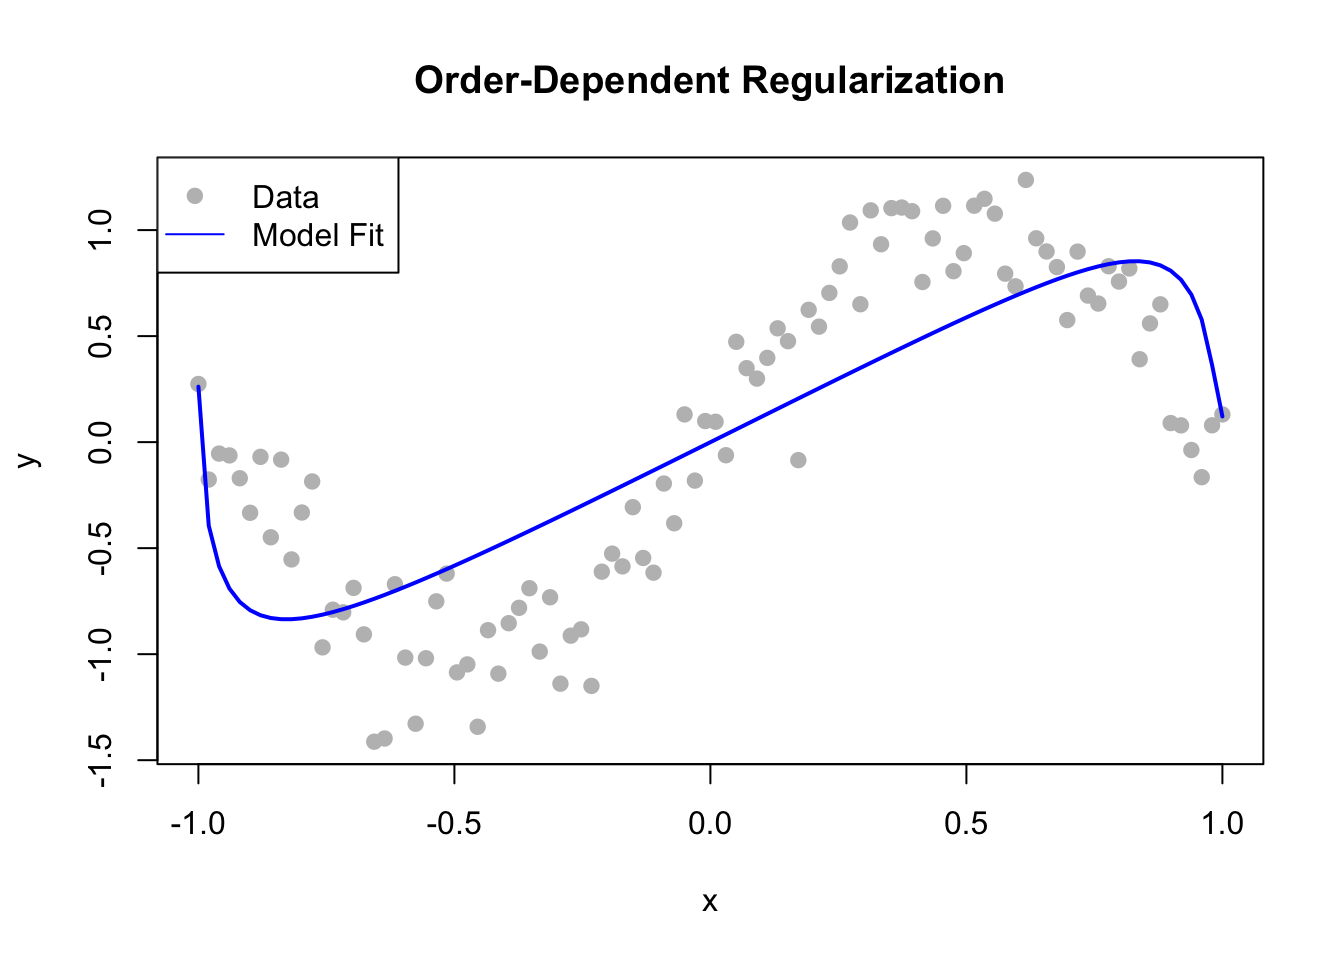
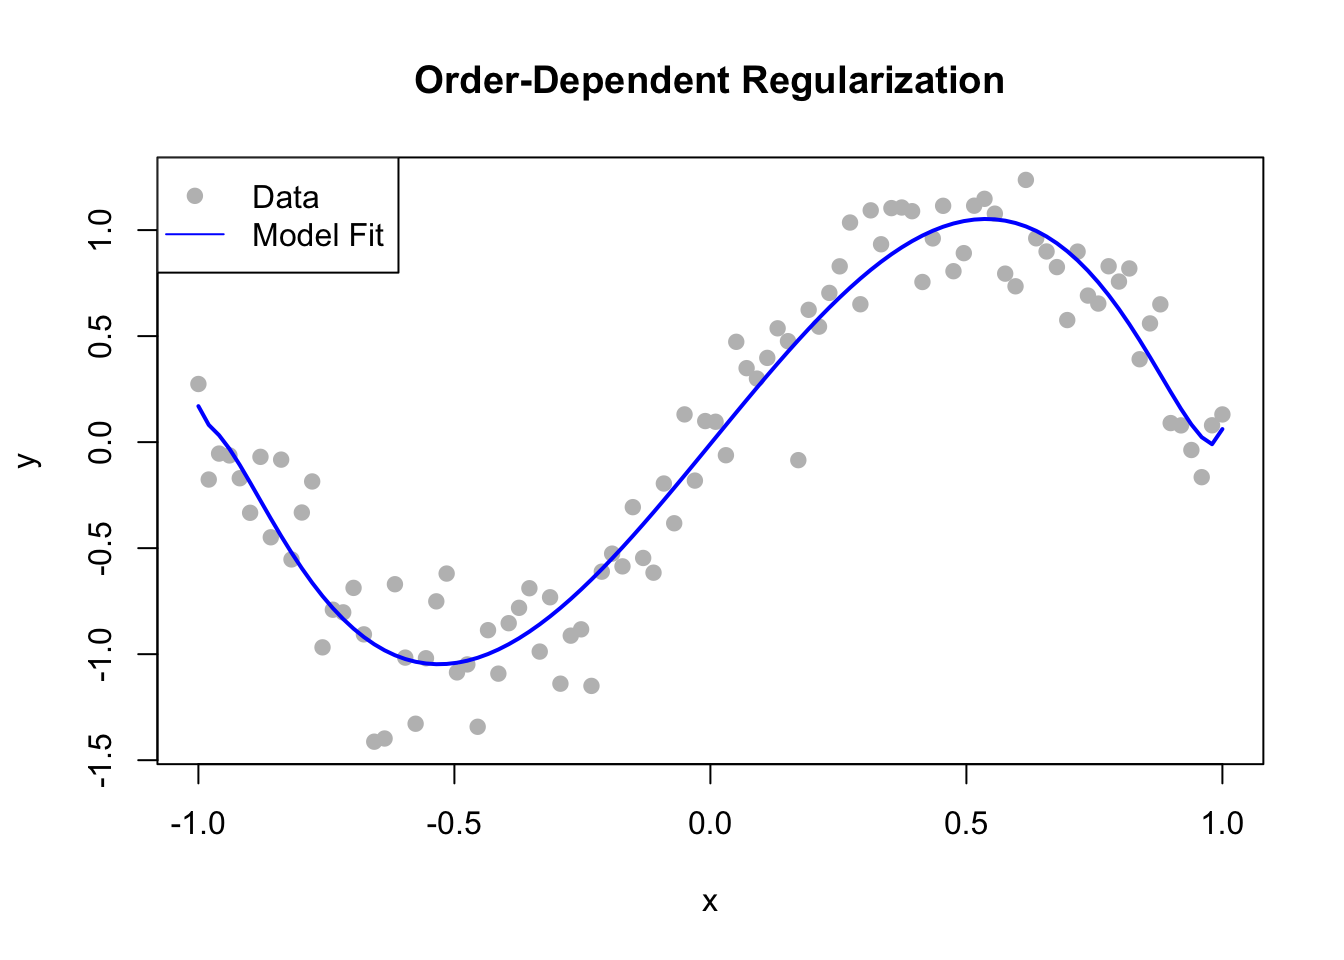
Remove cache files

diff --git a/beware_of_r-square.html b/beware_of_r-square.html
@@ -346,68 +346,15 @@ pre > code.sourceCode > span > a:first-child::before { text-decoration: underlin
 <span id="cb15-11"><a href="#cb15-11" aria-hidden="true" tabindex="-1"></a>    vars[i<span class="sc">+</span><span class="dv">1</span>, j] <span class="ot">&lt;-</span> <span class="fu">calc_variance</span>(<span class="dv">10</span>, i, <span class="fl">0.1</span>, <span class="dv">1000</span>)</span>
 <span id="cb15-12"><a href="#cb15-12" aria-hidden="true" tabindex="-1"></a>  }</span>
 <span id="cb15-13"><a href="#cb15-13" aria-hidden="true" tabindex="-1"></a>}</span></code></pre></div><button title="Copy to Clipboard" class="code-copy-button"><i class="bi"></i></button></div>
-<div class="cell-output cell-output-stdout">
-<pre><code>[1] 0
-[1] 1
-[1] 2
-[1] 3
-[1] 4
-[1] 5
-[1] 6
-[1] 7
-[1] 8
-[1] 9
-[1] 10
-[1] 11
-[1] 12
-[1] 13
-[1] 14
-[1] 15
-[1] 16
-[1] 17
-[1] 18
-[1] 19
-[1] 20
-[1] 21
-[1] 22
-[1] 23
-[1] 24
-[1] 25
-[1] 26
-[1] 27
-[1] 28
-[1] 29
-[1] 30
-[1] 31
-[1] 32
-[1] 33
-[1] 34
-[1] 35
-[1] 36
-[1] 37
-[1] 38
-[1] 39
-[1] 40
-[1] 41
-[1] 42
-[1] 43
-[1] 44
-[1] 45
-[1] 46
-[1] 47
-[1] 48
-[1] 49
-[1] 50</code></pre>
-</div>
 </div>
 <div class="cell">
-<div class="code-copy-outer-scaffold"><div class="sourceCode cell-code" id="cb17"><pre class="sourceCode r code-with-copy"><code class="sourceCode r"><span id="cb17-1"><a href="#cb17-1" aria-hidden="true" tabindex="-1"></a>plot_col <span class="ot">&lt;-</span> <span class="fu">rep</span>(<span class="st">"blue"</span>, K<span class="sc">+</span><span class="dv">1</span>)</span>
-<span id="cb17-2"><a href="#cb17-2" aria-hidden="true" tabindex="-1"></a>plot_col[<span class="dv">1</span><span class="sc">:</span><span class="dv">9</span>] <span class="ot">&lt;-</span> <span class="st">"forestgreen"</span> <span class="co"># used later</span></span>
-<span id="cb17-3"><a href="#cb17-3" aria-hidden="true" tabindex="-1"></a>df <span class="ot">&lt;-</span> <span class="fu">data.frame</span>(<span class="at">vars=</span><span class="fu">rowMeans</span>(<span class="fu">log</span>(vars)), </span>
-<span id="cb17-4"><a href="#cb17-4" aria-hidden="true" tabindex="-1"></a>                 <span class="at">err=</span><span class="fu">rowMeans</span>(<span class="fu">log</span>(err)), </span>
-<span id="cb17-5"><a href="#cb17-5" aria-hidden="true" tabindex="-1"></a>                 <span class="at">plot_col=</span>plot_col)</span>
-<span id="cb17-6"><a href="#cb17-6" aria-hidden="true" tabindex="-1"></a><span class="fu">plot</span>(<span class="dv">0</span><span class="sc">:</span>K, df<span class="sc">$</span>err, <span class="st">"l"</span>, <span class="at">xlab=</span><span class="st">"Number of added features"</span>, <span class="at">ylab=</span><span class="st">"log(test error)"</span>, <span class="at">las=</span><span class="dv">1</span>, <span class="at">main=</span><span class="st">"Double Descent"</span>, <span class="at">col=</span><span class="st">"blue"</span>, <span class="at">lwd=</span><span class="dv">2</span>)</span>
-<span id="cb17-7"><a href="#cb17-7" aria-hidden="true" tabindex="-1"></a><span class="fu">abline</span>(<span class="at">v=</span><span class="dv">8</span>, <span class="at">lty=</span><span class="dv">2</span>, <span class="at">col=</span><span class="st">"red"</span>)</span></code></pre></div><button title="Copy to Clipboard" class="code-copy-button"><i class="bi"></i></button></div>
+<div class="code-copy-outer-scaffold"><div class="sourceCode cell-code" id="cb16"><pre class="sourceCode r code-with-copy"><code class="sourceCode r"><span id="cb16-1"><a href="#cb16-1" aria-hidden="true" tabindex="-1"></a>plot_col <span class="ot">&lt;-</span> <span class="fu">rep</span>(<span class="st">"blue"</span>, K<span class="sc">+</span><span class="dv">1</span>)</span>
+<span id="cb16-2"><a href="#cb16-2" aria-hidden="true" tabindex="-1"></a>plot_col[<span class="dv">1</span><span class="sc">:</span><span class="dv">9</span>] <span class="ot">&lt;-</span> <span class="st">"forestgreen"</span> <span class="co"># used later</span></span>
+<span id="cb16-3"><a href="#cb16-3" aria-hidden="true" tabindex="-1"></a>df <span class="ot">&lt;-</span> <span class="fu">data.frame</span>(<span class="at">vars=</span><span class="fu">rowMeans</span>(<span class="fu">log</span>(vars)), </span>
+<span id="cb16-4"><a href="#cb16-4" aria-hidden="true" tabindex="-1"></a>                 <span class="at">err=</span><span class="fu">rowMeans</span>(<span class="fu">log</span>(err)), </span>
+<span id="cb16-5"><a href="#cb16-5" aria-hidden="true" tabindex="-1"></a>                 <span class="at">plot_col=</span>plot_col)</span>
+<span id="cb16-6"><a href="#cb16-6" aria-hidden="true" tabindex="-1"></a><span class="fu">plot</span>(<span class="dv">0</span><span class="sc">:</span>K, df<span class="sc">$</span>err, <span class="st">"l"</span>, <span class="at">xlab=</span><span class="st">"Number of added features"</span>, <span class="at">ylab=</span><span class="st">"log(test error)"</span>, <span class="at">las=</span><span class="dv">1</span>, <span class="at">main=</span><span class="st">"Double Descent"</span>, <span class="at">col=</span><span class="st">"blue"</span>, <span class="at">lwd=</span><span class="dv">2</span>)</span>
+<span id="cb16-7"><a href="#cb16-7" aria-hidden="true" tabindex="-1"></a><span class="fu">abline</span>(<span class="at">v=</span><span class="dv">8</span>, <span class="at">lty=</span><span class="dv">2</span>, <span class="at">col=</span><span class="st">"red"</span>)</span></code></pre></div><button title="Copy to Clipboard" class="code-copy-button"><i class="bi"></i></button></div>
 <div class="cell-output-display">
 <div>
 <figure class="figure">
@@ -417,8 +364,8 @@ pre > code.sourceCode > span > a:first-child::before { text-decoration: underlin
 </div>
 </div>
 <div class="cell">
-<div class="code-copy-outer-scaffold"><div class="sourceCode cell-code" id="cb18"><pre class="sourceCode r code-with-copy"><code class="sourceCode r"><span id="cb18-1"><a href="#cb18-1" aria-hidden="true" tabindex="-1"></a><span class="fu">plot</span>(<span class="dv">0</span><span class="sc">:</span>K, df<span class="sc">$</span>vars, <span class="st">"l"</span>, <span class="at">xlab=</span><span class="st">"Number of added features"</span>, <span class="at">ylab=</span><span class="st">"log(variance)"</span>, <span class="at">las=</span><span class="dv">1</span>, <span class="at">main=</span><span class="st">"Model variance"</span>, <span class="at">lwd=</span><span class="dv">2</span>, <span class="at">col=</span><span class="st">"darkgreen"</span>)</span>
-<span id="cb18-2"><a href="#cb18-2" aria-hidden="true" tabindex="-1"></a><span class="fu">abline</span>(<span class="at">v=</span><span class="dv">8</span>, <span class="at">lty=</span><span class="dv">2</span>, <span class="at">col=</span><span class="st">"red"</span>)</span></code></pre></div><button title="Copy to Clipboard" class="code-copy-button"><i class="bi"></i></button></div>
+<div class="code-copy-outer-scaffold"><div class="sourceCode cell-code" id="cb17"><pre class="sourceCode r code-with-copy"><code class="sourceCode r"><span id="cb17-1"><a href="#cb17-1" aria-hidden="true" tabindex="-1"></a><span class="fu">plot</span>(<span class="dv">0</span><span class="sc">:</span>K, df<span class="sc">$</span>vars, <span class="st">"l"</span>, <span class="at">xlab=</span><span class="st">"Number of added features"</span>, <span class="at">ylab=</span><span class="st">"log(variance)"</span>, <span class="at">las=</span><span class="dv">1</span>, <span class="at">main=</span><span class="st">"Model variance"</span>, <span class="at">lwd=</span><span class="dv">2</span>, <span class="at">col=</span><span class="st">"darkgreen"</span>)</span>
+<span id="cb17-2"><a href="#cb17-2" aria-hidden="true" tabindex="-1"></a><span class="fu">abline</span>(<span class="at">v=</span><span class="dv">8</span>, <span class="at">lty=</span><span class="dv">2</span>, <span class="at">col=</span><span class="st">"red"</span>)</span></code></pre></div><button title="Copy to Clipboard" class="code-copy-button"><i class="bi"></i></button></div>
 <div class="cell-output-display">
 <div>
 <figure class="figure">
@@ -428,11 +375,11 @@ pre > code.sourceCode > span > a:first-child::before { text-decoration: underlin
 </div>
 </div>
 <div class="cell">
-<div class="code-copy-outer-scaffold"><div class="sourceCode cell-code" id="cb19"><pre class="sourceCode r code-with-copy"><code class="sourceCode r"><span id="cb19-1"><a href="#cb19-1" aria-hidden="true" tabindex="-1"></a>df<span class="sc">$</span>K <span class="ot">&lt;-</span> <span class="dv">0</span><span class="sc">:</span>K</span>
-<span id="cb19-2"><a href="#cb19-2" aria-hidden="true" tabindex="-1"></a>df <span class="ot">&lt;-</span> df[<span class="fu">order</span>(df<span class="sc">$</span>vars), ]</span>
-<span id="cb19-3"><a href="#cb19-3" aria-hidden="true" tabindex="-1"></a><span class="fu">plot</span>(df<span class="sc">$</span>vars, df<span class="sc">$</span>err, <span class="at">col=</span>df<span class="sc">$</span>plot_col, <span class="at">pch=</span><span class="dv">19</span>, <span class="at">xlab=</span><span class="st">"log(variance)"</span>, <span class="at">ylab=</span><span class="st">"log(test error)"</span>, <span class="at">las=</span><span class="dv">1</span>, <span class="at">cex=</span><span class="fl">1.3</span>)</span>
-<span id="cb19-4"><a href="#cb19-4" aria-hidden="true" tabindex="-1"></a>loess_fit <span class="ot">&lt;-</span> <span class="fu">loess</span>(df<span class="sc">$</span>err <span class="sc">~</span> df<span class="sc">$</span>vars, <span class="at">span =</span> <span class="fl">0.6</span>)</span>
-<span id="cb19-5"><a href="#cb19-5" aria-hidden="true" tabindex="-1"></a><span class="fu">lines</span>(df<span class="sc">$</span>vars, <span class="fu">predict</span>(loess_fit), <span class="at">col=</span><span class="fu">rgb</span>(<span class="dv">0</span>, <span class="dv">0</span>, <span class="dv">0</span>, <span class="fl">0.1</span>), <span class="at">lwd=</span><span class="dv">10</span>)</span></code></pre></div><button title="Copy to Clipboard" class="code-copy-button"><i class="bi"></i></button></div>
+<div class="code-copy-outer-scaffold"><div class="sourceCode cell-code" id="cb18"><pre class="sourceCode r code-with-copy"><code class="sourceCode r"><span id="cb18-1"><a href="#cb18-1" aria-hidden="true" tabindex="-1"></a>df<span class="sc">$</span>K <span class="ot">&lt;-</span> <span class="dv">0</span><span class="sc">:</span>K</span>
+<span id="cb18-2"><a href="#cb18-2" aria-hidden="true" tabindex="-1"></a>df <span class="ot">&lt;-</span> df[<span class="fu">order</span>(df<span class="sc">$</span>vars), ]</span>
+<span id="cb18-3"><a href="#cb18-3" aria-hidden="true" tabindex="-1"></a><span class="fu">plot</span>(df<span class="sc">$</span>vars, df<span class="sc">$</span>err, <span class="at">col=</span>df<span class="sc">$</span>plot_col, <span class="at">pch=</span><span class="dv">19</span>, <span class="at">xlab=</span><span class="st">"log(variance)"</span>, <span class="at">ylab=</span><span class="st">"log(test error)"</span>, <span class="at">las=</span><span class="dv">1</span>, <span class="at">cex=</span><span class="fl">1.3</span>)</span>
+<span id="cb18-4"><a href="#cb18-4" aria-hidden="true" tabindex="-1"></a>loess_fit <span class="ot">&lt;-</span> <span class="fu">loess</span>(df<span class="sc">$</span>err <span class="sc">~</span> df<span class="sc">$</span>vars, <span class="at">span =</span> <span class="fl">0.6</span>)</span>
+<span id="cb18-5"><a href="#cb18-5" aria-hidden="true" tabindex="-1"></a><span class="fu">lines</span>(df<span class="sc">$</span>vars, <span class="fu">predict</span>(loess_fit), <span class="at">col=</span><span class="fu">rgb</span>(<span class="dv">0</span>, <span class="dv">0</span>, <span class="dv">0</span>, <span class="fl">0.1</span>), <span class="at">lwd=</span><span class="dv">10</span>)</span></code></pre></div><button title="Copy to Clipboard" class="code-copy-button"><i class="bi"></i></button></div>
 <div class="cell-output-display">
 <div>
 <figure class="figure">
@@ -445,48 +392,48 @@ pre > code.sourceCode > span > a:first-child::before { text-decoration: underlin
 <section id="double-descent-take-two" class="level2">
 <h2 class="anchored" data-anchor-id="double-descent-take-two">Double descent take two</h2>
 <div class="cell">
-<div class="code-copy-outer-scaffold"><div class="sourceCode cell-code" id="cb20"><pre class="sourceCode r code-with-copy"><code class="sourceCode r"><span id="cb20-1"><a href="#cb20-1" aria-hidden="true" tabindex="-1"></a><span class="fu">library</span>(glmnet)</span></code></pre></div><button title="Copy to Clipboard" class="code-copy-button"><i class="bi"></i></button></div>
+<div class="code-copy-outer-scaffold"><div class="sourceCode cell-code" id="cb19"><pre class="sourceCode r code-with-copy"><code class="sourceCode r"><span id="cb19-1"><a href="#cb19-1" aria-hidden="true" tabindex="-1"></a><span class="fu">library</span>(glmnet)</span></code></pre></div><button title="Copy to Clipboard" class="code-copy-button"><i class="bi"></i></button></div>
 </div>
 <ol type="1">
 <li>Simulate data: a simple sine wave with some noise</li>
 </ol>
 <div class="cell">
-<div class="code-copy-outer-scaffold"><div class="sourceCode cell-code" id="cb21"><pre class="sourceCode r code-with-copy"><code class="sourceCode r"><span id="cb21-1"><a href="#cb21-1" aria-hidden="true" tabindex="-1"></a><span class="fu">set.seed</span>(<span class="dv">42</span>)</span>
-<span id="cb21-2"><a href="#cb21-2" aria-hidden="true" tabindex="-1"></a>n <span class="ot">&lt;-</span> <span class="dv">100</span></span>
-<span id="cb21-3"><a href="#cb21-3" aria-hidden="true" tabindex="-1"></a>x <span class="ot">&lt;-</span> <span class="fu">seq</span>(<span class="sc">-</span><span class="dv">1</span>, <span class="dv">1</span>, <span class="at">length.out =</span> n)</span>
-<span id="cb21-4"><a href="#cb21-4" aria-hidden="true" tabindex="-1"></a>y <span class="ot">&lt;-</span> <span class="fu">sin</span>(pi <span class="sc">*</span> x) <span class="sc">+</span> <span class="fu">rnorm</span>(n, <span class="at">sd =</span> <span class="fl">0.2</span>)</span></code></pre></div><button title="Copy to Clipboard" class="code-copy-button"><i class="bi"></i></button></div>
+<div class="code-copy-outer-scaffold"><div class="sourceCode cell-code" id="cb20"><pre class="sourceCode r code-with-copy"><code class="sourceCode r"><span id="cb20-1"><a href="#cb20-1" aria-hidden="true" tabindex="-1"></a><span class="fu">set.seed</span>(<span class="dv">42</span>)</span>
+<span id="cb20-2"><a href="#cb20-2" aria-hidden="true" tabindex="-1"></a>n <span class="ot">&lt;-</span> <span class="dv">100</span></span>
+<span id="cb20-3"><a href="#cb20-3" aria-hidden="true" tabindex="-1"></a>x <span class="ot">&lt;-</span> <span class="fu">seq</span>(<span class="sc">-</span><span class="dv">1</span>, <span class="dv">1</span>, <span class="at">length.out =</span> n)</span>
+<span id="cb20-4"><a href="#cb20-4" aria-hidden="true" tabindex="-1"></a>y <span class="ot">&lt;-</span> <span class="fu">sin</span>(pi <span class="sc">*</span> x) <span class="sc">+</span> <span class="fu">rnorm</span>(n, <span class="at">sd =</span> <span class="fl">0.2</span>)</span>
+<span id="cb20-5"><a href="#cb20-5" aria-hidden="true" tabindex="-1"></a><span class="co">#y &lt;- x + rnorm(n, sd = 0.2)</span></span>
+<span id="cb20-6"><a href="#cb20-6" aria-hidden="true" tabindex="-1"></a><span class="co">#y &lt;- 1 + x + x^2 + x^3 + x^4 + rnorm(n, sd = 0.2)</span></span></code></pre></div><button title="Copy to Clipboard" class="code-copy-button"><i class="bi"></i></button></div>
 </div>
 <ol start="2" type="1">
 <li>Create high-order polynomial features</li>
 </ol>
 <p>Using <code>raw=TRUE</code> to get standard powers: <code>x^1, x^2, ..., x^k</code></p>
 <div class="cell">
-<div class="code-copy-outer-scaffold"><div class="sourceCode cell-code" id="cb22"><pre class="sourceCode r code-with-copy"><code class="sourceCode r"><span id="cb22-1"><a href="#cb22-1" aria-hidden="true" tabindex="-1"></a>poly_degree <span class="ot">&lt;-</span> <span class="dv">1000</span></span>
-<span id="cb22-2"><a href="#cb22-2" aria-hidden="true" tabindex="-1"></a>X_poly <span class="ot">&lt;-</span> <span class="fu">poly</span>(x, <span class="at">degree =</span> poly_degree, <span class="at">raw =</span> <span class="cn">TRUE</span>)</span></code></pre></div><button title="Copy to Clipboard" class="code-copy-button"><i class="bi"></i></button></div>
+<div class="code-copy-outer-scaffold"><div class="sourceCode cell-code" id="cb21"><pre class="sourceCode r code-with-copy"><code class="sourceCode r"><span id="cb21-1"><a href="#cb21-1" aria-hidden="true" tabindex="-1"></a>poly_degree <span class="ot">&lt;-</span> <span class="dv">10000</span></span>
+<span id="cb21-2"><a href="#cb21-2" aria-hidden="true" tabindex="-1"></a>X_poly <span class="ot">&lt;-</span> <span class="fu">poly</span>(x, <span class="at">degree =</span> poly_degree, <span class="at">raw =</span> <span class="cn">TRUE</span>)</span></code></pre></div><button title="Copy to Clipboard" class="code-copy-button"><i class="bi"></i></button></div>
 </div>
 <ol start="3" type="1">
 <li>Define the order-dependent penalty weights</li>
 </ol>
 <p>We penalize higher-order coefficients more heavily.</p>
-<p>We set lower penalty for early terms (powers 1-3) and higher for the rest.</p>
 <div class="cell">
-<div class="code-copy-outer-scaffold"><div class="sourceCode cell-code" id="cb23"><pre class="sourceCode r code-with-copy"><code class="sourceCode r"><span id="cb23-1"><a href="#cb23-1" aria-hidden="true" tabindex="-1"></a>weights <span class="ot">&lt;-</span> <span class="fu">log</span>(<span class="fu">seq_len</span>(poly_degree))</span></code></pre></div><button title="Copy to Clipboard" class="code-copy-button"><i class="bi"></i></button></div>
+<div class="code-copy-outer-scaffold"><div class="sourceCode cell-code" id="cb22"><pre class="sourceCode r code-with-copy"><code class="sourceCode r"><span id="cb22-1"><a href="#cb22-1" aria-hidden="true" tabindex="-1"></a>weights <span class="ot">&lt;-</span> <span class="fu">log</span>(<span class="fu">seq_len</span>(poly_degree))</span></code></pre></div><button title="Copy to Clipboard" class="code-copy-button"><i class="bi"></i></button></div>
 </div>
 <ol start="4" type="1">
-<li>Fit the model using <code>glmnet</code> with the <code>penalty.factor argument</code></li>
+<li>Fit the model using <code>glmnet</code> with the <code>penalty.factor</code> argument</li>
 </ol>
-<p>We use <code>alpha=0</code> for Ridge regression (L2) to handle multicollinearity common in high-order polynomials.</p>
 <div class="cell">
-<div class="code-copy-outer-scaffold"><div class="sourceCode cell-code" id="cb24"><pre class="sourceCode r code-with-copy"><code class="sourceCode r"><span id="cb24-1"><a href="#cb24-1" aria-hidden="true" tabindex="-1"></a>fit <span class="ot">&lt;-</span> <span class="fu">cv.glmnet</span>(X_poly, y, <span class="at">penalty.factor =</span> weights, <span class="at">alpha =</span> <span class="dv">0</span>)</span></code></pre></div><button title="Copy to Clipboard" class="code-copy-button"><i class="bi"></i></button></div>
+<div class="code-copy-outer-scaffold"><div class="sourceCode cell-code" id="cb23"><pre class="sourceCode r code-with-copy"><code class="sourceCode r"><span id="cb23-1"><a href="#cb23-1" aria-hidden="true" tabindex="-1"></a>fit <span class="ot">&lt;-</span> <span class="fu">cv.glmnet</span>(X_poly, y, <span class="at">penalty.factor =</span> weights)</span></code></pre></div><button title="Copy to Clipboard" class="code-copy-button"><i class="bi"></i></button></div>
 </div>
 <ol start="5" type="1">
 <li>Visualize the result</li>
 </ol>
 <div class="cell">
-<div class="code-copy-outer-scaffold"><div class="sourceCode cell-code" id="cb25"><pre class="sourceCode r code-with-copy"><code class="sourceCode r"><span id="cb25-1"><a href="#cb25-1" aria-hidden="true" tabindex="-1"></a>y_pred <span class="ot">&lt;-</span> <span class="fu">predict</span>(fit, <span class="at">newx =</span> X_poly, <span class="at">s =</span> <span class="st">"lambda.min"</span>)</span>
-<span id="cb25-2"><a href="#cb25-2" aria-hidden="true" tabindex="-1"></a><span class="fu">plot</span>(x, y, <span class="at">main =</span> <span class="st">"Order-Dependent Regularization"</span>, <span class="at">pch =</span> <span class="dv">19</span>, <span class="at">col =</span> <span class="st">"gray"</span>)</span>
-<span id="cb25-3"><a href="#cb25-3" aria-hidden="true" tabindex="-1"></a><span class="fu">lines</span>(x, y_pred, <span class="at">col =</span> <span class="st">"blue"</span>, <span class="at">lwd =</span> <span class="dv">2</span>)</span>
-<span id="cb25-4"><a href="#cb25-4" aria-hidden="true" tabindex="-1"></a><span class="fu">legend</span>(<span class="st">"topleft"</span>, <span class="at">legend =</span> <span class="fu">c</span>(<span class="st">"Data"</span>, <span class="st">"Model Fit"</span>), <span class="at">col =</span> <span class="fu">c</span>(<span class="st">"gray"</span>, <span class="st">"blue"</span>), <span class="at">pch =</span> <span class="fu">c</span>(<span class="dv">19</span>, <span class="cn">NA</span>), <span class="at">lty =</span> <span class="fu">c</span>(<span class="cn">NA</span>, <span class="dv">1</span>))</span></code></pre></div><button title="Copy to Clipboard" class="code-copy-button"><i class="bi"></i></button></div>
+<div class="code-copy-outer-scaffold"><div class="sourceCode cell-code" id="cb24"><pre class="sourceCode r code-with-copy"><code class="sourceCode r"><span id="cb24-1"><a href="#cb24-1" aria-hidden="true" tabindex="-1"></a>y_pred <span class="ot">&lt;-</span> <span class="fu">predict</span>(fit, <span class="at">newx =</span> X_poly, <span class="at">s =</span> <span class="st">"lambda.min"</span>)</span>
+<span id="cb24-2"><a href="#cb24-2" aria-hidden="true" tabindex="-1"></a><span class="fu">plot</span>(x, y, <span class="at">main =</span> <span class="st">"Order-Dependent Regularization"</span>, <span class="at">pch =</span> <span class="dv">19</span>, <span class="at">col =</span> <span class="st">"gray"</span>)</span>
+<span id="cb24-3"><a href="#cb24-3" aria-hidden="true" tabindex="-1"></a><span class="fu">lines</span>(x, y_pred, <span class="at">col =</span> <span class="st">"blue"</span>, <span class="at">lwd =</span> <span class="dv">2</span>)</span>
+<span id="cb24-4"><a href="#cb24-4" aria-hidden="true" tabindex="-1"></a><span class="fu">legend</span>(<span class="st">"topleft"</span>, <span class="at">legend =</span> <span class="fu">c</span>(<span class="st">"Data"</span>, <span class="st">"Model Fit"</span>), <span class="at">col =</span> <span class="fu">c</span>(<span class="st">"gray"</span>, <span class="st">"blue"</span>), <span class="at">pch =</span> <span class="fu">c</span>(<span class="dv">19</span>, <span class="cn">NA</span>), <span class="at">lty =</span> <span class="fu">c</span>(<span class="cn">NA</span>, <span class="dv">1</span>))</span></code></pre></div><button title="Copy to Clipboard" class="code-copy-button"><i class="bi"></i></button></div>
 <div class="cell-output-display">
 <div>
 <figure class="figure">
@@ -499,7 +446,7 @@ pre > code.sourceCode > span > a:first-child::before { text-decoration: underlin
 <section id="print-environment" class="level2">
 <h2 class="anchored" data-anchor-id="print-environment">Print environment</h2>
 <div class="cell">
-<div class="code-copy-outer-scaffold"><div class="sourceCode cell-code" id="cb26"><pre class="sourceCode r code-with-copy"><code class="sourceCode r"><span id="cb26-1"><a href="#cb26-1" aria-hidden="true" tabindex="-1"></a>sessioninfo<span class="sc">::</span><span class="fu">session_info</span>()</span></code></pre></div><button title="Copy to Clipboard" class="code-copy-button"><i class="bi"></i></button></div>
+<div class="code-copy-outer-scaffold"><div class="sourceCode cell-code" id="cb25"><pre class="sourceCode r code-with-copy"><code class="sourceCode r"><span id="cb25-1"><a href="#cb25-1" aria-hidden="true" tabindex="-1"></a>sessioninfo<span class="sc">::</span><span class="fu">session_info</span>()</span></code></pre></div><button title="Copy to Clipboard" class="code-copy-button"><i class="bi"></i></button></div>
 <div class="cell-output cell-output-stdout">
 <pre><code>─ Session info ───────────────────────────────────────────────────────────────
  setting  value
